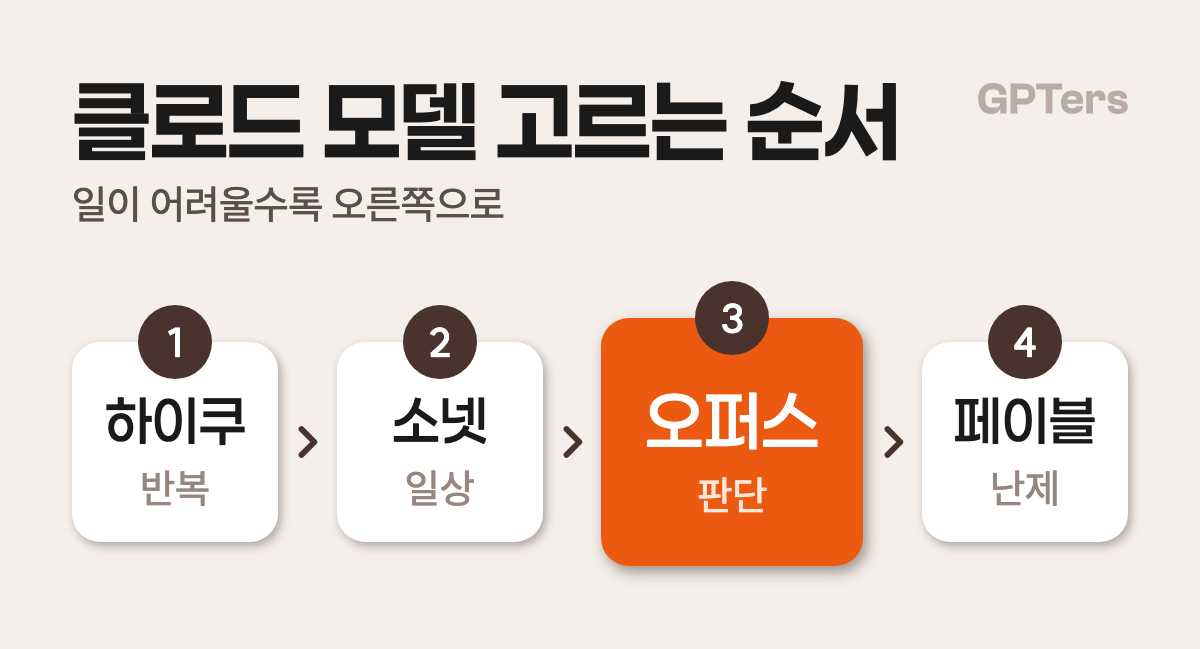
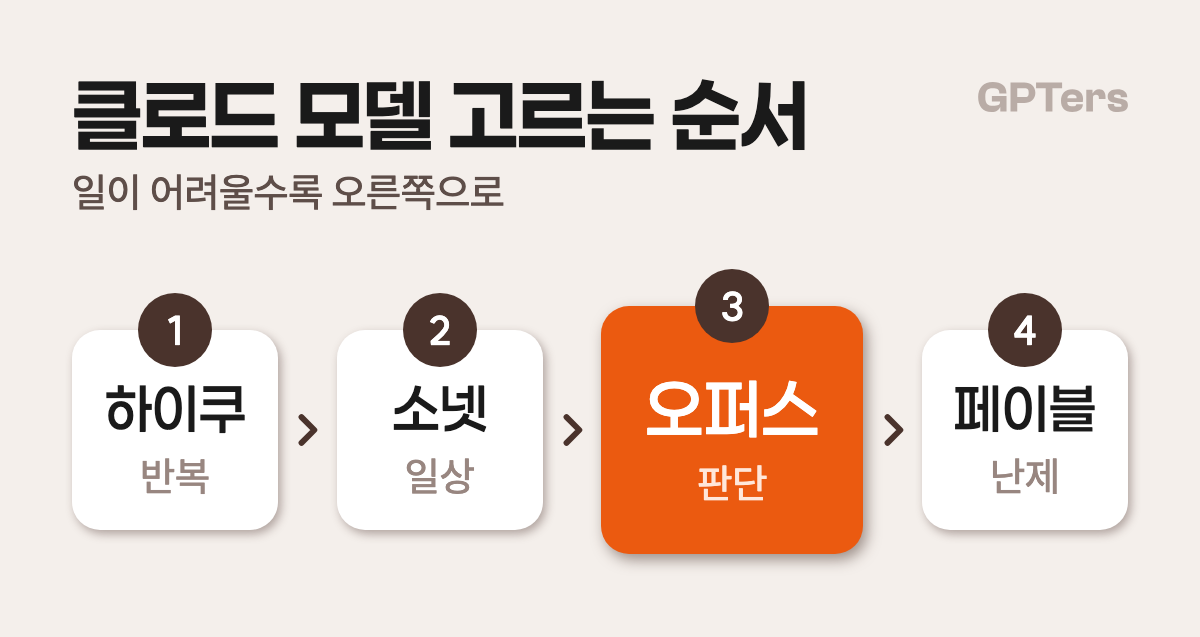
제목 80px(가로 6.7%) 확정, 글자 단계를 가로 대비 비율로 표기, 예시 4종 다시 렌더

diff --git a/assets/examples/card-compare-2x2.html b/assets/examples/card-compare-2x2.html
@@ -6,7 +6,7 @@
 @font-face{font-family:SUIT;font-weight:700;src:url(../fonts/SUIT-Bold.woff2)}
 *{box-sizing:border-box}body{margin:0;background:#F4EFEB;color:#1A1A1A}
 .art{width:1200px;padding:68px 72px 83px;position:relative}
-h1{margin:0;font:700 90px/1.2 Paperlogy;letter-spacing:-.02em}
+h1{margin:0;font:700 80px/1.2 Paperlogy;letter-spacing:-.02em}
 .sub{margin-top:2px;font:500 40px/1.3 SUIT;color:#5E4E49;letter-spacing:-.01em}
 .g{display:grid;grid-template-columns:1fr 1fr;gap:32px 36px;margin-top:52px}
 .card{background:#fff;border:none;box-shadow:var(--s);border-radius:28px;height:184px;padding:0 44px;display:flex;flex-direction:column;justify-content:center;align-items:center;text-align:center;gap:10px}
@@ -15,5 +15,5 @@ h1{margin:0;font:700 90px/1.2 Paperlogy;letter-spacing:-.02em}
 b{font:500 62px/1.15 Paperlogy;color:#1A1A1A} i{font:600 50px SUIT;font-style:normal;color:#988680}
 s{text-decoration:none;font:500 40px SUIT;color:#988680}
 .on b,.on i{color:#fff}.on s{color:#FFD9C6}
-.hd{display:flex;justify-content:space-between;align-items:flex-start}.lg{width:150px;flex:none;margin-top:15.3px}</style></head><body><div class="art" id="a" style="--s:3px 4px 10px rgba(74,51,44,.40);--so:4px 6px 14px rgba(74,51,44,.50)">
+.hd{display:flex;justify-content:space-between;align-items:flex-start}.lg{width:150px;flex:none;margin-top:13.6px}</style></head><body><div class="art" id="a" style="--s:3px 4px 10px rgba(74,51,44,.40);--so:4px 6px 14px rgba(74,51,44,.50)">
 <div class="hd"><h1>클로드 모델별 차이</h1><img class="lg" src="../logo/wordmark-gray-warm.svg"></div><div class="sub">Fable, Opus, Sonnet, Haiku 비교</div><div class="g"><div class="card"><div class="top"><b>페이블</b><i>5.1</i></div><s>가장 똑똑함</s></div><div class="card on"><div class="top"><b>오퍼스</b><i>5.5</i></div><s>공식 추천</s></div><div class="card"><div class="top"><b>소넷</b><i>5.5</i></div><s>빠르고 균형</s></div><div class="card"><div class="top"><b>하이쿠</b><i>5.5</i></div><s>싸고 빠름</s></div></div></div></body></html>

diff --git a/index.html b/index.html
@@ -629,14 +629,14 @@
     <figure><img src="assets/examples/card-list.png" alt="어떤 일에 어떤 모델 목록 카드" loading="lazy"><figcaption>세로 목록: 강조 줄만 끝까지 길게</figcaption></figure>
     <figure><img src="assets/examples/card-vs.png" alt="오퍼스 소넷 차이 대결 카드" loading="lazy"><figcaption>대결·전후: 문장은 SUIT, 시작선 위로 맞추기</figcaption></figure>
   </div>
-  <h3>글자 단계 (1200 너비)</h3>
+  <h3>글자 단계 (가로 대비 비율, 괄호는 1200 너비)</h3>
   <div class="tbl"><table>
-    <tr><th>역할</th><th>글꼴</th><th>크기</th><th>색</th></tr>
-    <tr><td>제목</td><td>Paperlogy 700</td><td>90px</td><td><code>#1A1A1A</code></td></tr>
-    <tr><td>부제</td><td>SUIT 500</td><td>40px, 제목에 2px로 붙이기</td><td><code>#5E4E49</code></td></tr>
-    <tr><td>카드 이름</td><td>Paperlogy 500</td><td>54~62px</td><td><code>#1A1A1A</code> (주황 위 흰색)</td></tr>
-    <tr><td>카드 숫자</td><td>SUIT 600</td><td>50px, 이름 옆 16px</td><td><code>#988680</code></td></tr>
-    <tr><td>카드 설명</td><td>SUIT 500</td><td>40px (하한)</td><td><code>#988680</code></td></tr>
+    <tr><th>역할</th><th>글꼴·굵기</th><th>가로 대비</th><th>색</th></tr>
+    <tr><td>제목</td><td>Paperlogy 700</td><td>6.7% (80px)</td><td><code>#1A1A1A</code></td></tr>
+    <tr><td>카드 이름</td><td>Paperlogy 500</td><td>4.5~5.2% (54~62px)</td><td><code>#1A1A1A</code> (주황 위 흰색)</td></tr>
+    <tr><td>카드 숫자</td><td>SUIT 600</td><td>4.2% (50px), 이름 옆</td><td><code>#988680</code></td></tr>
+    <tr><td>부제·카드 설명</td><td>SUIT 500</td><td>3.3% (40px), 하한</td><td><code>#5E4E49</code> · <code>#988680</code></td></tr>
+    <tr><td>로고 폭</td><td>회색 단색 <code>#B9ACA6</code></td><td>12.5% (150px)</td><td>제목 글자 윗선에 맞춤</td></tr>
   </table></div>
   <h3>카드와 그림자</h3>
   <div class="grid g2">

diff --git a/assets/examples/card-formats.html b/assets/examples/card-formats.html
@@ -6,8 +6,8 @@
 *{box-sizing:border-box}body{margin:0;background:#F4EFEB;color:#1A1A1A}
 .art{width:1200px;padding:68px 72px 83px;position:relative;background:#F4EFEB}
 .hd{display:flex;justify-content:space-between;align-items:flex-start}
-.lg{width:150px;flex:none;margin-top:15.3px}
-h1{margin:0;font:700 90px/1.2 Paperlogy;letter-spacing:-.02em}
+.lg{width:150px;flex:none;margin-top:13.6px}
+h1{margin:0;font:700 80px/1.2 Paperlogy;letter-spacing:-.02em}
 .sub{margin-top:2px;font:500 40px/1.3 SUIT;color:#5E4E49;letter-spacing:-.01em}
 .card{background:#fff;border-radius:28px;box-shadow:3px 4px 10px rgba(74,51,44,.40)}
 .card.on{background:#EB5A10;box-shadow:4px 6px 14px rgba(74,51,44,.50)}

diff --git a/DESIGN.md b/DESIGN.md
@@ -55,23 +55,26 @@ AI를 함께 공부하고 성장하는 사람들이 모인 커뮤니티. 4주 AI
 - 배너 헤드카피: 페이퍼로지 Black 96px 이상, 두 줄 기본(뜻 단위로 줄바꿈), 행간 1.25~1.35. 글자 외곽선은 요청이 있을 때만.
 - 한 장에 문장 3~4개. 작아 보이면 글자를 줄이지 말고 글을 덜어 낸다.
 
-### 3-1. 이미지 안 글자 단계 (정보형 카드 이미지, 1200 너비 기준, 10/19 확정)
-| 역할 | 글꼴 | 크기 | 색 |
+### 3-1. 이미지 안 글자 단계 (정보형 카드 이미지, 10/19 확정)
+크기는 **캔버스 가로 대비 비율**로 정한다. 폰은 가로폭에 맞춰 줄이므로 비율이 실제 보이는 크기를 정한다. 괄호는 1200 너비일 때.
+| 역할 | 글꼴·굵기 | 가로 대비 | 색 |
 |---|---|---|---|
-| 제목 | 페이퍼로지 700, 자간 -0.02em | 90px | ink `#1A1A1A` |
-| 부제 | SUIT 500, 자간 -0.01em | 40px | caption `#5E4E49` |
-| 카드 이름 | 페이퍼로지 500 | 54~62px(강조 카드는 한 단계 크게) | ink, 주황 카드 위는 흰색 |
-| 카드 숫자 | SUIT 600 | 50px, 이름 바로 옆(간격 16px) | card-number `#988680` |
-| 카드 설명·라벨 | SUIT 500 | 40px(하한) | card-number `#988680`, 주황 위는 `#FFE7DA` |
-| 번호 배지·전후 라벨 | SUIT 700 | 40px | 흰색 on `#4A332C` |
-| 프롬프트·인용 문장 | SUIT 500, 행간 1.4 | 50px | ink, 주황 위는 흰색 |
+| 제목 | 페이퍼로지 700, 자간 -0.02em | 6.7% (80px) | ink `#1A1A1A` |
+| 카드 이름 | 페이퍼로지 500 | 4.5~5.2% (54~62px), 강조 카드는 한 단계 크게 | ink, 주황 카드 위는 흰색 |
+| 카드 숫자 | SUIT 600 | 4.2% (50px), 이름 바로 옆 | card-number `#988680` |
+| 대결·전후 문장 | SUIT 500, 행간 1.4 | 4.2% (50px) | ink, 주황 위는 흰색 |
+| 부제 | SUIT 500, 자간 -0.01em | 3.3% (40px) | caption `#5E4E49` |
+| 카드 설명·라벨 | SUIT 500 | 3.3% (40px), 하한 | card-number `#988680`, 주황 위는 `#FFE7DA` |
+| 번호 배지·대결 라벨 | SUIT 700 | 3.3% (40px) | 흰색 on `#4A332C` |
+| 로고 폭 | 회색 단색 `#B9ACA6` | 12.5% (150px) | |
+- 단계는 6.7 → 5.2 → 4.2 → 3.3%로 고르게 벌린다. 제목을 6%까지 줄이면 숫자와 설명이 붙어 근소한 차이가 생긴다(10/19 72px안 탈락).
 - 🔴 근소한 차이는 만들지 않는다. 크기 5px 안팎·굵기 한 단계처럼 눈으로 구분 안 되는 값은 똑같이 맞춘다(부제와 카드 설명은 둘 다 SUIT 500 40px). 다르게 할 거면 확실히 다르게.
-- 위계는 크게 벌린다: 제목(90) > 카드 이름(54~62) > 숫자(50) > 설명(40). 굵기는 제목 700, 이름 500, 숫자 SUIT 600. 이름보다 숫자가 굵어 보이면 숫자를 낮춘다.
+- 위계는 크게 벌린다: 제목 > 카드 이름 > 숫자 > 설명. 굵기는 제목 700, 이름 500, 숫자 SUIT 600. 이름보다 숫자가 굵어 보이면 숫자를 낮춘다.
 - 페이퍼로지는 제목과 이름에만. 프롬프트, 대화, 인용처럼 실제 입력하는 문장은 SUIT.
 - 숫자를 카드 반대쪽 끝에 떨어뜨리지 않는다. 이름 옆에 붙인다.
 - 카드 안은 가운데 정렬(한쪽만 빈 여백이 생기지 않게). 제목·부제는 왼쪽 정렬.
 - 카드 높이는 내용에 맞춘다(2줄이면 184px). 이름 줄과 설명 사이는 10px.
-- 부제는 제목에 바짝 붙인다(간격 2px). 아래 여백은 위 여백(캔버스 위에서 제목 글자 윗선까지, 83px)과 같게.
+- 부제는 제목에 바짝 붙인다(간격 2px). 아래 여백은 위 여백(캔버스 위에서 제목 글자 윗선까지, 약 82px)과 같게.
 - 한영 병기: 중요한 키워드의 영어는 부제에 한 번. 카드 안에는 넣지 않는다.
 - 🔴 모바일 하한은 픽셀이 아니라 **캔버스 가로 길이의 3.3%**(10/19 확정). 폰은 세로형이든 가로형이든 이미지를 화면 폭(약 350~375px)에 맞춰 줄이므로 세로 길이는 상관없다. 3.3%면 폰에서 약 12.5px.
   - 환산: 800 → 27px · 1080 → 36px · 1200 → 40px · 1280 → 43px. `gpters-daily-content-v2/scripts/render-check.cjs`(MIN_1080=36)가 같은 비율로 막는다.
